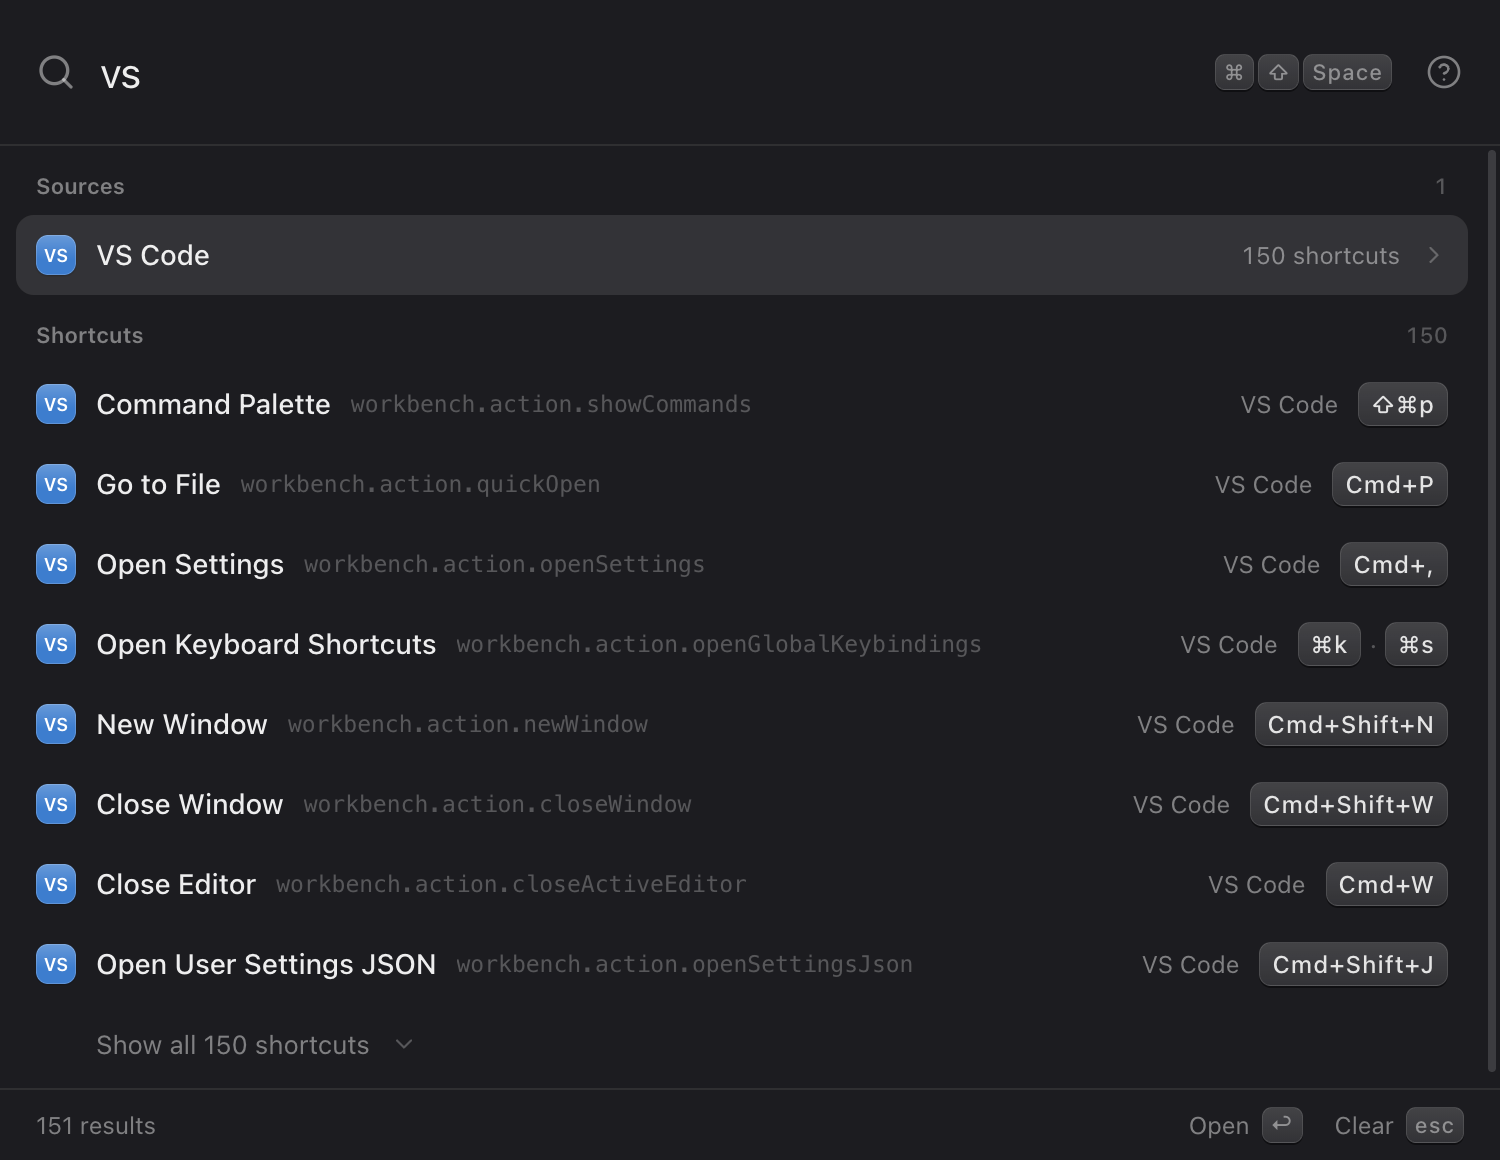
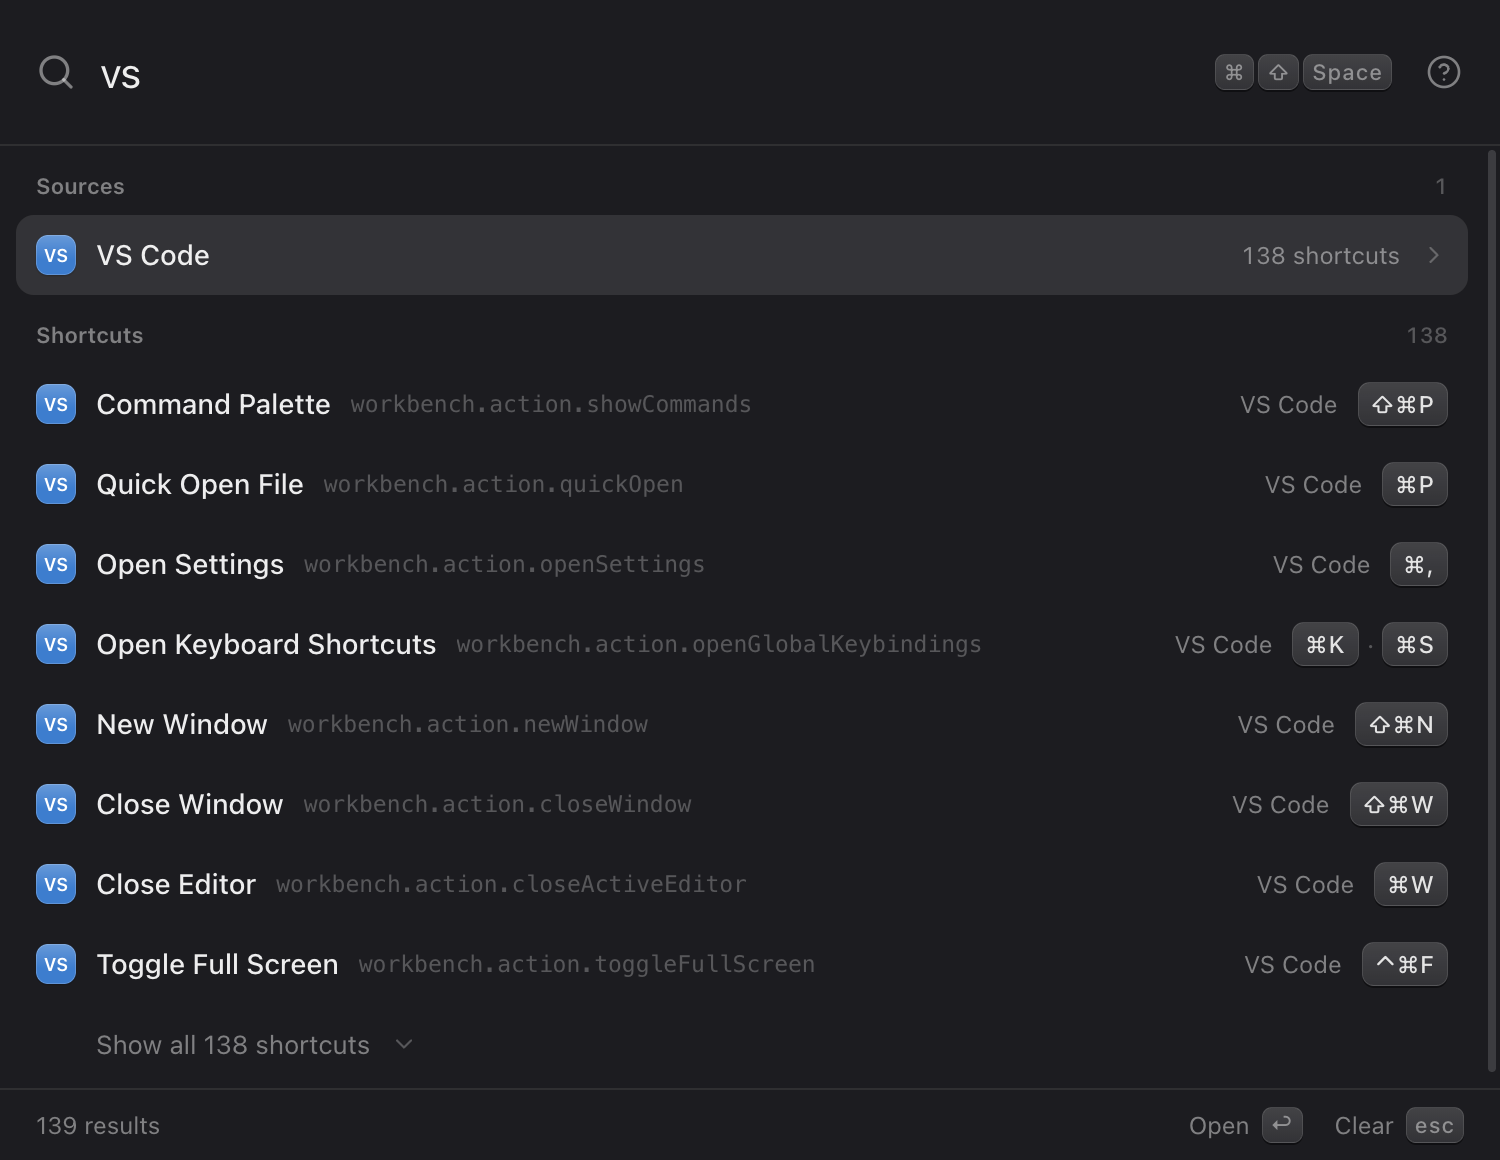
docs(wip): refresh the after-launcher benchmark on the merged base
Cheatsheets now load in the build, so the screenshots need no symlink and
show normalized key caps; update the timings and drop the findings fixed
elsewhere.

diff --git a/docs/wip/benchmark.md b/docs/wip/benchmark.md
@@ -114,23 +114,26 @@ screenshot cannot capture; the benchmark paints a dark backdrop
 
 ## After the launcher rework (WP-D search/navigation, WP-E visuals)
 
-Branch `feat/launcher-ux`, rebased on `e080dea` (main-process lifecycle).
-Run like the **workaround** column above (untracked `cheatsheets` symlink,
-493 shortcuts) so the screenshots show real data: `make e2e-benchmark
-LABEL=after-launcher`. Raw numbers: `benchmark/after-launcher-timings.json`.
-Startup numbers are not comparable (main-process changes, host load ~7 during
-the run); the renderer-only numbers are:
+Branch `feat/launcher-ux`, rebased on `2e17715` (main-process lifecycle,
+shortcut engine, commands engine and keyboard layouts merged). Cheatsheets
+now load in the build, so no symlink is needed: 510 shortcuts. Reproduce
+with `make e2e-benchmark LABEL=after-launcher`; raw numbers in
+`benchmark/after-launcher-timings.json`. Startup (291 ms) and enrichment
+times come from the main-process work, not this change. Renderer numbers,
+host load ~3:
 
 | Metric | workaround (before) | after-launcher |
 |---|---|---|
-| `show()` to search input focused | 34 ms | 27 ms |
-| Query to first row rendered, `vs` | 1.7 ms | 3.9 ms |
-| Query to first row rendered, `toggle` | 3.1 ms | 3.4 ms |
-| Query to first row rendered, `>gizmo` | 0.4 ms | 0.9 ms |
+| `show()` to search input focused | 34 ms | 42 ms |
+| Query to first row rendered, `vs` | 1.7 ms | 2.8 ms |
+| Query to first row rendered, `toggle` | 3.1 ms | 4.5 ms |
+| Query to first row rendered, `>gizmo` | 0.4 ms | 0.5 ms |
 
-Search stays under the 5 ms target of SPECS §10.3, but `vs` (150 matches)
-doubled: rows carry more DOM (source tile, footer, section groups). Worth a
-profile against a real PATH before v1.
+Search stays under the 5 ms target of SPECS §10.3, with less margin: the
+shortcut index gained a layout-key field (keyboard layouts) and rows carry
+more DOM (source tile, footer, section groups). Scroll-into-view runs in the
+next frame so it stays off the keystroke path. Runs vary by ±1 ms on a busy
+host; profile against a real PATH before v1.
 
 What changed, by benchmark finding:
 
@@ -156,10 +159,6 @@ What changed, by benchmark finding:
 - Shows and hides animate (exit through `onWindowWillHide`), with
   reduced-motion fallbacks; the state resets when the window hides.
 - No refetch of all shortcuts and commands on every show.
-
-Still visible and owned elsewhere: mixed `Cmd+P` / `⌘P` key labels and
-Ghostty duplicates (shortcut engine), single-entry `--help` sections
-(commands engine).
 
 | State | before (workaround) | after-launcher |
 |---|---|---|
